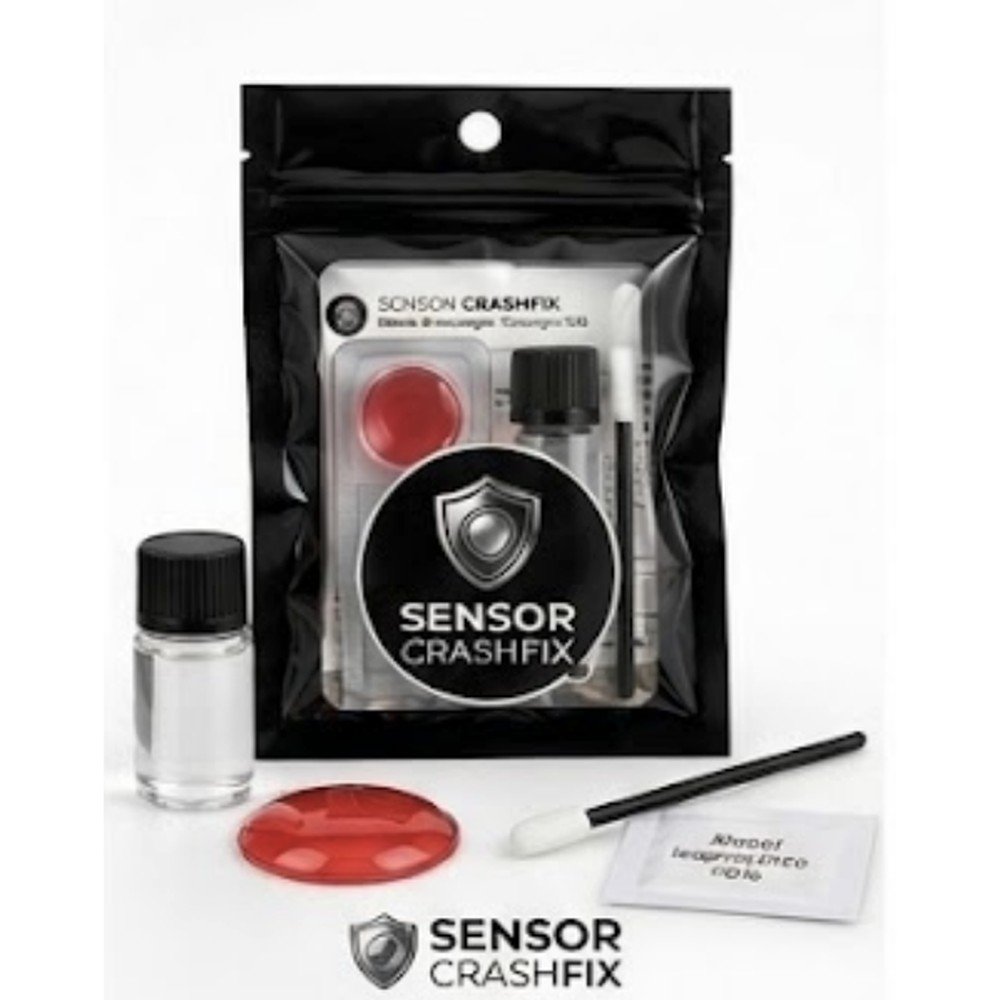
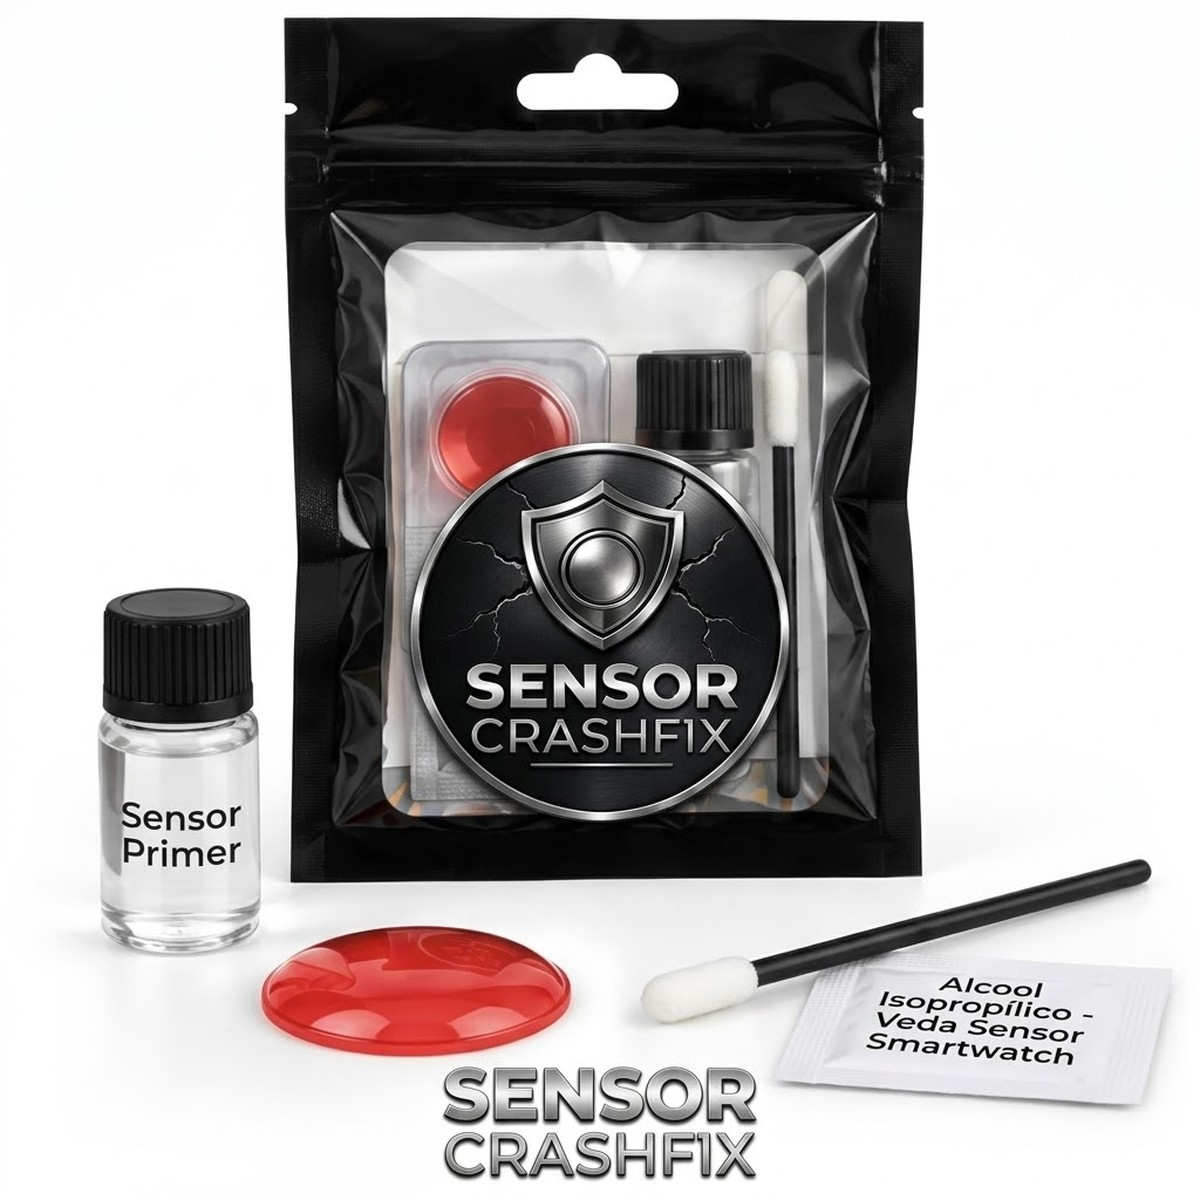
Atualiza fotos smartwatch em 1200×1200 uniformes.
Troca embalagem, conteúdo, aplicação e antes/depois do kit e alinha galeria EN/IT.

diff --git a/js/stf-product-gallery.js b/js/stf-product-gallery.js
@@ -10,6 +10,7 @@
   const PT_GALLERY = [
     '/images/kit-gallery/kit-03-aplicacao.jpg',
     '/images/kit-gallery/kit-01-embalagem.jpg',
+    '/images/kit-gallery/kit-02-conteudo.jpg',
     '/images/kit-gallery/kit-06-antes-depois.jpg'
   ];
 
@@ -19,12 +20,14 @@
   const EN_KIT_GALLERY = [
     '/images/kit-gallery/en/kit-03-aplicacao.jpg',
     '/images/kit-gallery/en/kit-01-embalagem.jpg',
+    '/images/kit-gallery/en/kit-02-conteudo.jpg',
     '/images/kit-gallery/en/kit-06-antes-depois.jpg'
   ];
 
   const IT_KIT_GALLERY = [
     SHARED_APLICACAO,
     '/images/kit-gallery/it/kit-01-embalagem.jpg',
+    '/images/kit-gallery/it/kit-02-conteudo.jpg',
     '/images/kit-gallery/it/kit-06-antes-depois.jpg'
   ];
 
@@ -35,18 +38,21 @@
   const LENS_GALLERY_EN = [
     '/images/kit-gallery/en/kit-01-embalagem.jpg',
     '/images/kit-gallery/en/kit-03-aplicacao.jpg',
+    '/images/kit-gallery/en/kit-02-conteudo.jpg',
     '/images/kit-gallery/en/kit-06-antes-depois.jpg'
   ];
 
   const LENS_GALLERY_IT = [
     '/images/kit-gallery/it/kit-01-embalagem.jpg',
     '/images/kit-gallery/it/kit-03-aplicacao.jpg',
+    '/images/kit-gallery/it/kit-02-conteudo.jpg',
     '/images/kit-gallery/it/kit-06-antes-depois.jpg'
   ];
 
   const LENS_GALLERY_SHARED = [
     '/images/kit-gallery/kit-01-embalagem.jpg',
     '/images/kit-gallery/kit-03-aplicacao.jpg',
+    '/images/kit-gallery/kit-02-conteudo.jpg',
     '/images/kit-gallery/kit-06-antes-depois.jpg'
   ];
 

diff --git a/api/worker.js b/api/worker.js
@@ -190,13 +190,12 @@ const DEFAULT_CONFIG = {
       descriptionEn: 'Designed for smartwatch optical sensors on cracked sensor.',
       descriptionIt: 'Progettata per i sensori ottici degli smartwatch su sensore incrinato.',
       price: 62.9,
-      image: '/images/lens-gallery/01-optical-correction-lens.png',
+      image: '/images/kit-gallery/en/kit-01-embalagem.jpg',
       images: [
-        '/images/lens-gallery/01-optical-correction-lens.png',
-        '/images/lens-gallery/02-ultra-thin.png',
-        '/images/lens-gallery/03-high-optical-transparency.png',
-        '/images/lens-gallery/04-engineered-refraction.png',
-        '/images/lens-gallery/05-whats-included.png'
+        '/images/kit-gallery/en/kit-01-embalagem.jpg',
+        '/images/kit-gallery/en/kit-03-aplicacao.jpg',
+        '/images/kit-gallery/en/kit-02-conteudo.jpg',
+        '/images/kit-gallery/en/kit-06-antes-depois.jpg'
       ],
       active: true,
       requiresSmartwatch: true,

diff --git a/de/loja.html b/de/loja.html
@@ -74,7 +74,7 @@
     <script src="../js/pelicula-compat.js?v=20"></script>
     <script src="../js/site-footer.js?v=17"></script>
     <script src="../js/site-feedback.js?v=8"></script>
-    <script src="../js/stf-product-gallery.js?v=23"></script>
+    <script src="../js/stf-product-gallery.js?v=24"></script>
     <script src="../js/loja.js?v=21"></script>
     <script src="../js/seo-schema.js?v=10"></script>
     <script src="../js/stf-intl-channels.js?v=2"></script>

diff --git a/en/loja.html b/en/loja.html
@@ -74,7 +74,7 @@
     <script src="../js/pelicula-compat.js?v=20"></script>
     <script src="../js/site-footer.js?v=12"></script>
     <script src="../js/site-feedback.js?v=8"></script>
-    <script src="../js/stf-product-gallery.js?v=23"></script>
+    <script src="../js/stf-product-gallery.js?v=24"></script>
     <script src="../js/loja.js?v=21"></script>
     <script src="../js/seo-schema.js?v=10"></script>
     <script src="../js/stf-intl-channels.js?v=2"></script>

diff --git a/es/loja.html b/es/loja.html
@@ -74,7 +74,7 @@
     <script src="../js/pelicula-compat.js?v=20"></script>
     <script src="../js/site-footer.js?v=17"></script>
     <script src="../js/site-feedback.js?v=8"></script>
-    <script src="../js/stf-product-gallery.js?v=23"></script>
+    <script src="../js/stf-product-gallery.js?v=24"></script>
     <script src="../js/loja.js?v=21"></script>
     <script src="../js/seo-schema.js?v=10"></script>
     <script src="../js/stf-intl-channels.js?v=2"></script>

diff --git a/it/loja.html b/it/loja.html
@@ -74,7 +74,7 @@
     <script src="../js/pelicula-compat.js?v=20"></script>
     <script src="../js/site-footer.js?v=12"></script>
     <script src="../js/site-feedback.js?v=8"></script>
-    <script src="../js/stf-product-gallery.js?v=23"></script>
+    <script src="../js/stf-product-gallery.js?v=24"></script>
     <script src="../js/loja.js?v=21"></script>
     <script src="../js/seo-schema.js?v=10"></script>
     <script src="../js/stf-intl-channels.js?v=2"></script>

diff --git a/pl/loja.html b/pl/loja.html
@@ -75,7 +75,7 @@
     <script src="../js/pelicula-compat.js?v=20"></script>
     <script src="../js/site-footer.js?v=17"></script>
     <script src="../js/site-feedback.js?v=8"></script>
-    <script src="../js/stf-product-gallery.js?v=23"></script>
+    <script src="../js/stf-product-gallery.js?v=24"></script>
     <script src="../js/loja.js?v=21"></script>
     <script src="../js/seo-schema.js?v=10"></script>
     <script src="../js/stf-intl-channels.js?v=2"></script>

diff --git a/sl/loja.html b/sl/loja.html
@@ -74,7 +74,7 @@
     <script src="../js/pelicula-compat.js?v=20"></script>
     <script src="../js/site-footer.js?v=17"></script>
     <script src="../js/site-feedback.js?v=8"></script>
-    <script src="../js/stf-product-gallery.js?v=23"></script>
+    <script src="../js/stf-product-gallery.js?v=24"></script>
     <script src="../js/loja.js?v=21"></script>
     <script src="../js/seo-schema.js?v=10"></script>
     <script src="../js/stf-intl-channels.js?v=2"></script>

diff --git a/de/index.html b/de/index.html
@@ -302,7 +302,7 @@
     <script src="../js/stf-money.js?v=6"></script>
     <script src="../js/store-price-tag.js?v=15"></script>
     <script src="../js/seo-schema.js?v=10"></script>
-    <script src="../js/stf-product-gallery.js?v=23"></script>
+    <script src="../js/stf-product-gallery.js?v=24"></script>
     <script src="../js/site-footer.js?v=17"></script>
     <script src="../js/site-feedback.js?v=8"></script>
     <script src="../js/account-nav.js"></script>

diff --git a/en/index.html b/en/index.html
@@ -357,7 +357,7 @@
     <script src="../js/stf-money.js?v=6"></script>
     <script src="../js/store-price-tag.js?v=15"></script>
     <script src="../js/seo-schema.js?v=10"></script>
-    <script src="../js/stf-product-gallery.js?v=23"></script>
+    <script src="../js/stf-product-gallery.js?v=24"></script>
     <script src="../js/site-footer.js?v=17"></script>
     <script src="../js/site-feedback.js?v=8"></script>
     <script src="../js/account-nav.js"></script>

diff --git a/es/index.html b/es/index.html
@@ -302,7 +302,7 @@
     <script src="../js/stf-money.js?v=6"></script>
     <script src="../js/store-price-tag.js?v=15"></script>
     <script src="../js/seo-schema.js?v=10"></script>
-    <script src="../js/stf-product-gallery.js?v=23"></script>
+    <script src="../js/stf-product-gallery.js?v=24"></script>
     <script src="../js/site-footer.js?v=17"></script>
     <script src="../js/site-feedback.js?v=8"></script>
     <script src="../js/account-nav.js"></script>

diff --git a/it/index.html b/it/index.html
@@ -298,7 +298,7 @@
     <script src="../js/stf-money.js?v=6"></script>
     <script src="../js/store-price-tag.js?v=15"></script>
     <script src="../js/seo-schema.js?v=10"></script>
-    <script src="../js/stf-product-gallery.js?v=23"></script>
+    <script src="../js/stf-product-gallery.js?v=24"></script>
     <script src="../js/site-footer.js?v=17"></script>
     <script src="../js/site-feedback.js?v=8"></script>
     <script src="../js/account-nav.js"></script>
